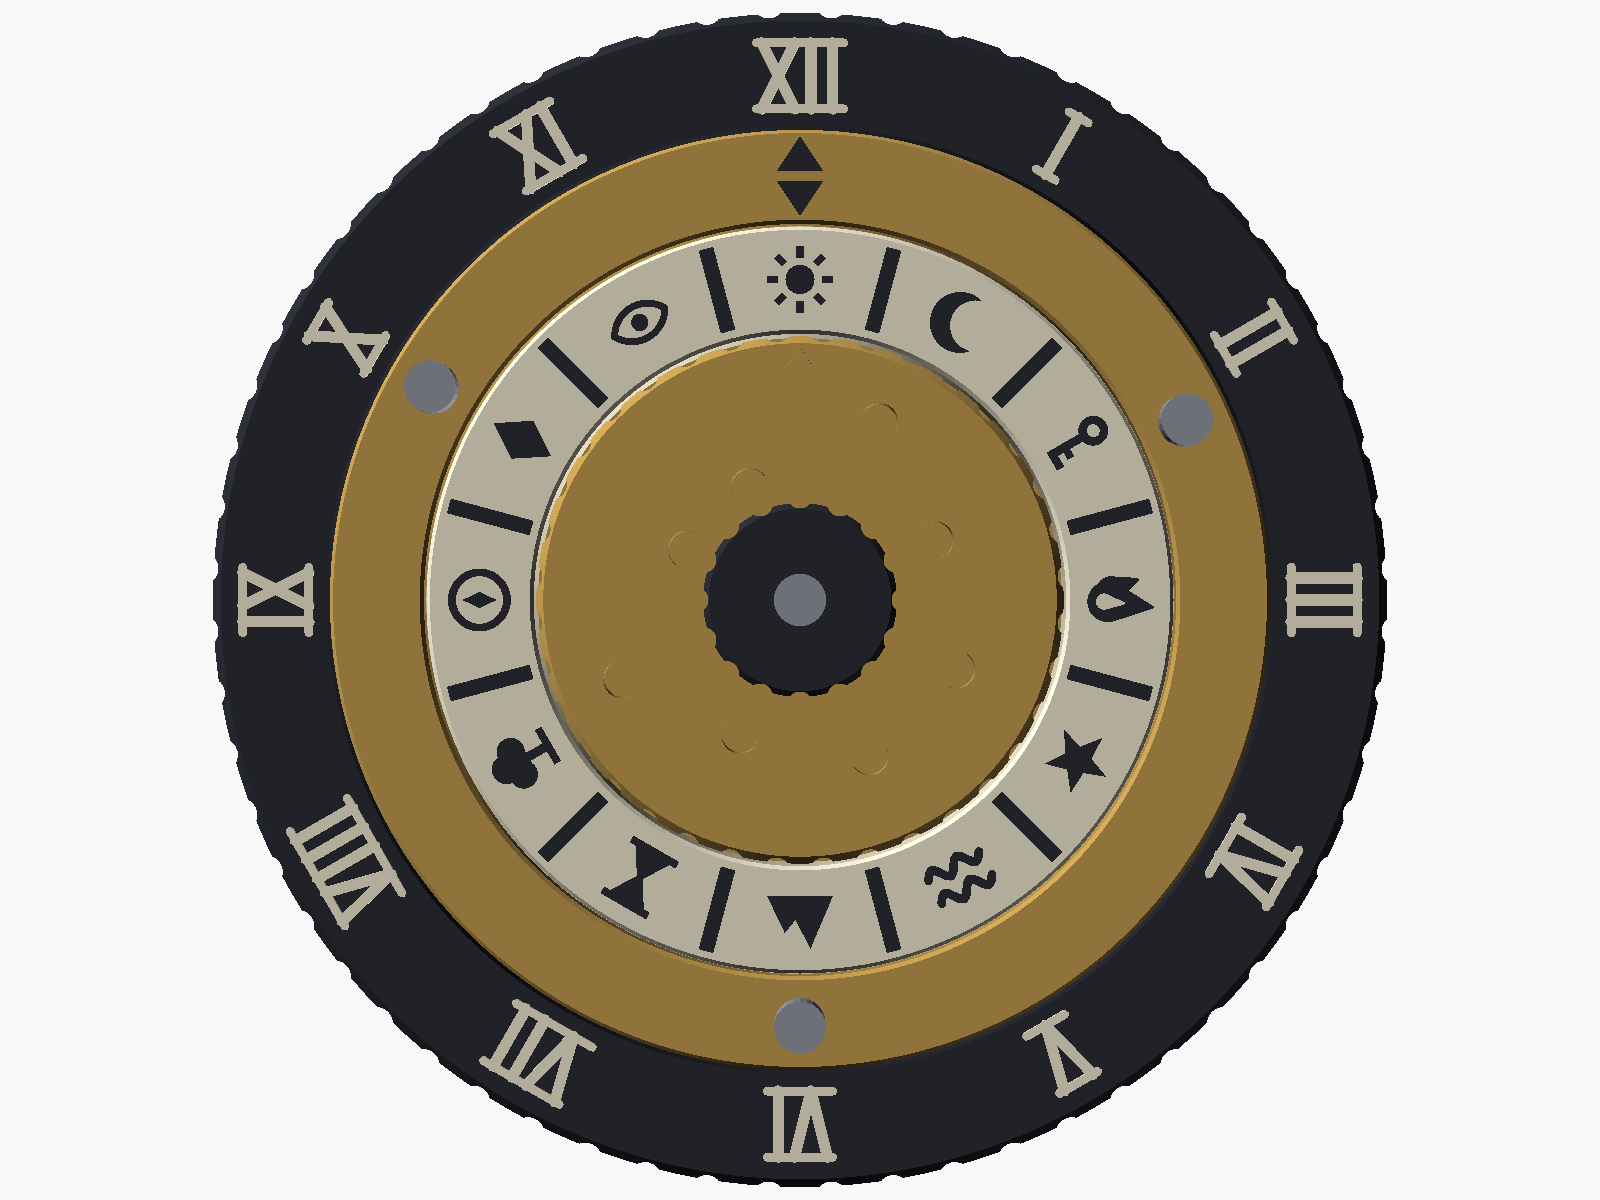
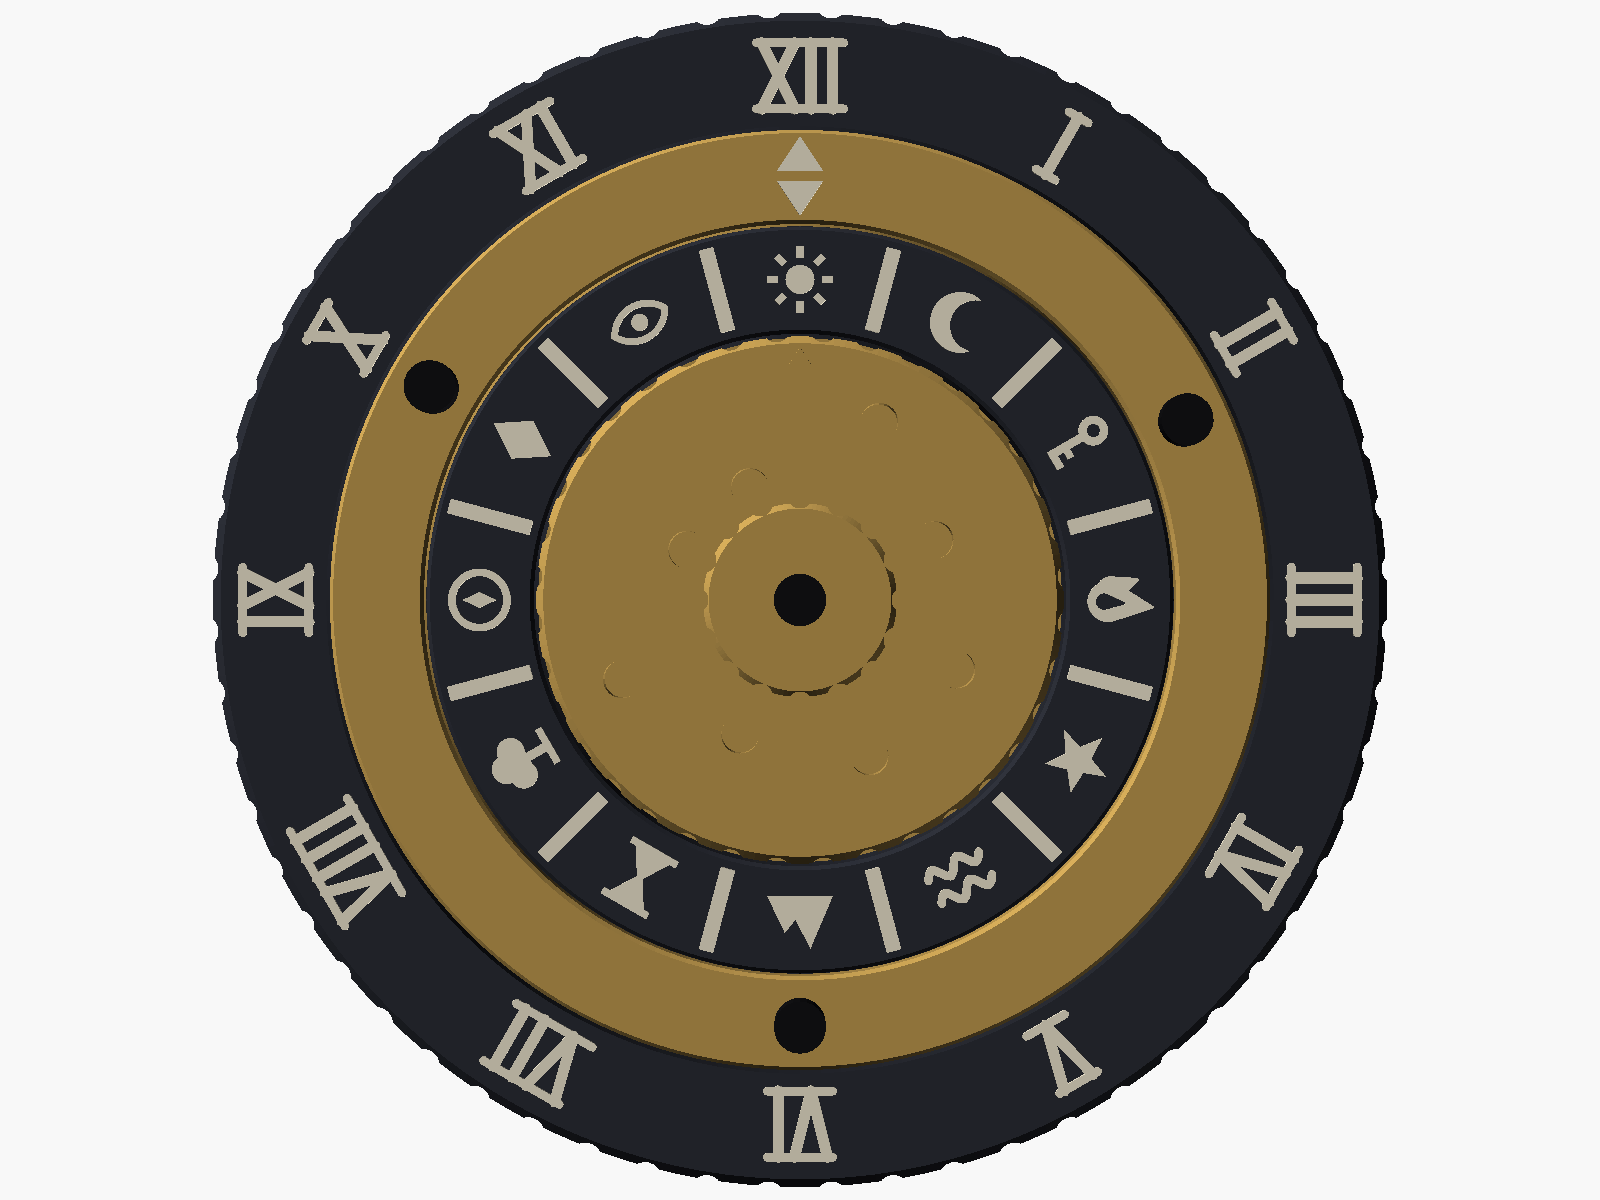
Approved colour plan: ivory arrow on brass cap, black inner ring with ivory symbols and ribs, brass knob
Preview colours updated; no geometry changes. Adds docs/COLOR_PLAN.md and a
final-colour print package guide.

Claude-Session: https://claude.ai/code/session_01Rm8pGY9BuRAEj21HPCvaCD

Changed region(s): [[0.25, 0.1233, 0.7812, 0.8942], [0.4375, 0.4008, 0.5625, 0.5858]]

diff --git a/docs/COLOR_PLAN.md b/docs/COLOR_PLAN.md
@@ -1,0 +1,39 @@
+# Final colour and hardware plan (owner-approved)
+
+Rule: **brass = structure; black with ivory markings = turns; ivory with black digits = collect.**
+Colours match the owner's actual spools (ERYONE brass-coloured PLA, matte black PLA, SUNLU Matte
+Bone White PLA, dark PETG), not the concept image. The concept image is style reference only.
+
+| Part | Body | Markings | How (0.20 mm layers) |
+|---|---|---|---|
+| Base, back plate, deck, centre cover | Brass | — | single colour |
+| Index cap (fixed ring between the dials) | Brass | **Ivory arrow** | change to ivory at **layer 13** (2.60 mm) |
+| Outer ring | Matte black | Ivory Roman numerals | change to ivory at **layer 29** (5.80 mm) |
+| Inner ring | Matte black | **Ivory symbols and ivory finger ribs** | change to ivory at **layer 29** (5.80 mm), one change only |
+| Centre knob | Brass | — | single colour |
+| Fragments (281 / 361 / 924 / 507) | Bone white | Black digits | black for layers 3–4, as already printed |
+| Aperture mask | Matte black | — | single colour |
+| Detent springs, latch ring | Dark PETG | — | single colour, wall loops 4 |
+
+Cover colour was not specified: brass is assumed (structure). It only shows as the thin lines
+between the fragments.
+
+## Decisions on record
+
+- **Index-cap arrow:** ivory on brass, approved. One cap is printed and inspected first. It must be
+  clearly visible in normal indoor light. If the contrast is inadequate the owner sees the result
+  before anything is changed to matte black.
+- **Inner ring:** Option A. The ribs print in ivory with the symbols, as radial separators that
+  echo the ivory numerals on the outer ring. Option B (a second filament change to keep the ribs
+  black) is not used.
+- No mechanical dimension, ring geometry, symbol, numeral or puzzle value changes.
+
+## Screws
+
+| Where | Screw | Notes |
+|---|---|---|
+| Top, index cap (3) | Black pan-head Phillips self-tapping, about 3 × 16 | Keep the three uneven positions. No fourth screw, no Torx. A hex key does not open them |
+| Back plate (4) | Black socket-head M3 × 8 | 2.5 mm hex key. Heads sit 0.2 mm below the surface |
+| Centre knob (1) | M3 × 8 socket-head | Head is inside the knob bore; black preferred |
+
+Twenty M3 × 8 socket-head screws are needed for four instruments (16 back plate + 4 knob).

diff --git a/README.md b/README.md
@@ -30,6 +30,7 @@ The reasoning behind the layout (and what was changed from the original brief) i
 | `build.sh` | Re-exports STLs, renders images, runs the interference checks. |
 | `scripts/make_sheets.py` | Regenerates the PDFs from the CAD parameters. |
 | `docs/SYMBOL_TEST.md` | Experiment: printed dial symbols instead of stickers (separate test plate). |
+| `docs/COLOR_PLAN.md` | Approved colour and screw plan, with the filament-change layer for each part. |
 | `docs/MATERIALS.md` | Materials, filament quantities (slicer-measured) and shopping list. |
 | `docs/Chronometer_design_handoff.pdf` | Self-contained design brief for an outside reviewer (`scripts/make_handoff.py`). |
 
@@ -52,11 +53,11 @@ PLA. STLs are already oriented; do not rotate them. Suggested colours are only t
 | `back_plate` | 1 | back face down | Brass. The whole back of the instrument; four sunk screw holes. |
 | `deck` | 1 | underside down | Order of walls **outer/inner**, the setting every passing fit test was printed with. Keep it the same for production. |
 | `outer_ring` | 1 | face up | Matte black. Raised numerals: change to bone white at layer 29. |
-| `inner_ring` | 1 | face up | Bone white. Raised symbols and finger ribs: change to black at layer 29. |
-| `index_cap` | 1 | face up | Brass. Raised arrow: change to black at layer 13. |
+| `inner_ring` | 1 | face up | Matte black. Raised symbols and ribs: change to bone white at layer 29 (one change). |
+| `index_cap` | 1 | face up | Brass. Raised arrow: change to bone white at layer 13. |
 | `pawl_outer`, `pawl_inner` | 2 + 2 | flat | Start with the medium (1.2 mm) ones. PETG recommended for the final sets. |
 | `cover` | 1 | face down | Smooth plate gives the best face. |
-| `keystone` | 1 | top down | |
+| `keystone` | 1 | top down | Brass. |
 | `uv_ring` | 1 | flat | Holds the UV disc and is the cover's latch spring. Print spares. |
 | `mask` | 1 | flat, marker up | Matte black. |
 | `door` | 1 | back face down | |

diff --git a/docs/MATERIALS.md b/docs/MATERIALS.md
@@ -1,5 +1,8 @@
 # Materials, filament and shopping list
 
+> **Colours:** the approved plan in [`COLOR_PLAN.md`](COLOR_PLAN.md) supersedes the colour
+> assignments below (inner ring is now black, centre knob brass, index-cap arrow ivory).
+
 Based on the CAD as of the first review round (running-fit bayonet with latch ring, 12 mm
 base, flat UV light). Nothing here changes the CAD. Nothing has been ordered.
 
